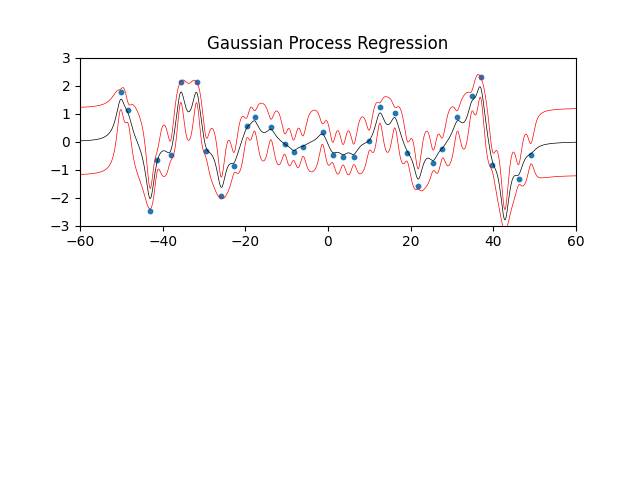
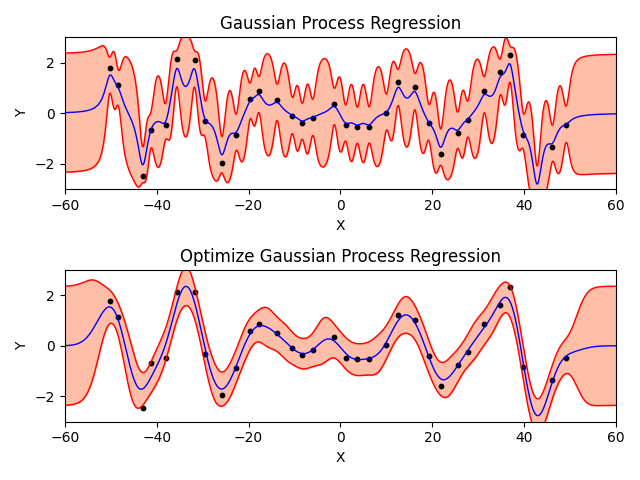
[HW5] Finish question 1.

diff --git a/hw5/ml/Gaussian_process.py b/hw5/ml/Gaussian_process.py
@@ -1,6 +1,8 @@
 import numpy as np
 import matplotlib.pyplot as plt
 from scipy.spatial.distance import cdist
+import math
+from scipy.optimize import minimize
 
 # python rich for debug
 from rich.traceback import install
@@ -64,22 +66,79 @@ def computeGaussianProcess(X: np.ndarray, Y: np.ndarray, X_star: np.ndarray, bet
     return predict_mean_xStar, predict_variance_xStar
 
 
-def visualizeGaussianProcess(X: np.ndarray, Y: np.ndarray, X_star: np.ndarray, predict_mean_xStar: np.ndarray, predict_variance_xStar: np.ndarray):
+def computeNegativeMarginalLogLikelihood(theta: np.ndarray, X: np.ndarray, Y: np.ndarray, beta: float):
+    """
+    According input theta, compute negative marginal log-likelihood
+    ln p(y|θ) = -0.5 * ln |Cθ| -0.5 * y^T * Cθ^-1 * y -0.5 * N * ln(2π)
+
+    parameter
+    X and Y: Input data points
+    X_star: All point X we want to predict. In this implement, the boundary of X_star is [-60, 60].
+    beta: The inverse of variance of ϵ.
+    theta: The hyper-parameters which I estimated.
+    """
+    N = X.shape[0]
+    # kθ(x, x)
+    k_theta = rationalQuadraticKernel(X, X, length = theta[0], alpha = theta[1])
+    # covariance matrix Cθ
+    C_theta = k_theta + (1 / beta) * np.identity(N)
+    # negative log-likelihood -ln p(y|θ) = 0.5 * ln |Cθ| +0.5 * y^T * Cθ^-1 * y +0.5 * N * ln(2π)
+    nega_log_likelihood = 0.5 * np.log(np.linalg.det(C_theta)) + 0.5 * np.matmul(np.transpose(Y), np.matmul(np.linalg.inv(C_theta), Y)) + 0.5 * N * np.log(2 * math.pi)
+    return nega_log_likelihood[0]
+
+
+def optimizeKernelParameter(X: np.ndarray, Y: np.ndarray, beta: float, theta: np.ndarray):
+    """
+    Optimize kernel function hyper-parameters theta(length, alpha).
+
+    parameter
+    X and Y: Input data points
+    X_star: All point X we want to predict. In this implement, the boundary of X_star is [-60, 60].
+    beta: The inverse of variance of ϵ.
+    theta: The hyper-parameters which I estimated.
+    """
+    opt_result = minimize(computeNegativeMarginalLogLikelihood, theta, args = (X, Y, beta))
+    return opt_result.x
+
+
+def visualizeGaussianProcess(X: np.ndarray, Y: np.ndarray, X_star: np.ndarray, predict_mean: np.ndarray, predict_variance: np.ndarray, opt_predict_mean: np.ndarray, opt_predict_variance: np.ndarray):
     # Draw Gaussian Process Regression
     plt.subplot(211)
     plt.title('Gaussian Process Regression')
-    plt.scatter(X, Y, s = 10.0)
-    var = np.diagonal(predict_variance_xStar).copy().reshape(-1, 1)
-    drawRegression(X_star, predict_mean_xStar, var)
+    plt.xlabel('X')
+    plt.ylabel('Y')
+    var = np.diagonal(predict_variance).copy()
+    # 95% confidence interval = 1.96x variance
+    confidence_interval_95 = 1.96 * var
+    drawRegression(X_star[:, 0], predict_mean[:, 0], confidence_interval_95)
+    plt.scatter(X, Y, s = 10.0, color = 'black')
+
+    # Draw Optimize Gaussian Process Regression
+    plt.subplot(212)
+    plt.title('Optimize Gaussian Process Regression')
+    plt.xlabel('X')
+    plt.ylabel('Y')
+    opt_var = np.diagonal(opt_predict_variance).copy()
+    # 95% confidence interval = 1.96x variance
+    opt_confidence_interval_95 = 1.96 * opt_var
+    drawRegression(X_star[:, 0], opt_predict_mean[:, 0], opt_confidence_interval_95)
+    plt.scatter(X, Y, s = 10.0, color = 'black')
+
+    # modify format
+    plt.tight_layout()
+
+    # save figure
     plt.savefig('foo.png')
 
 
-def drawRegression(x, y, var):
-    plt.plot(x, y, linewidth = 0.5, color = 'black')
-    plt.plot(x, y + var, linewidth = 0.5, color = 'red')
-    plt.plot(x, y - var, linewidth = 0.5, color = 'red')
+def drawRegression(x, y, boundary):
+    plt.plot(x, y, linewidth = 1, color = 'blue')
+    plt.plot(x, y + boundary, linewidth = 1, color = 'red')
+    plt.plot(x, y - boundary, linewidth = 1, color = 'red')
+    plt.fill_between(x, y + boundary, y - boundary, color = 'coral', alpha = 0.5)
     plt.xlim(-60.0, 60.0)
     plt.ylim(-3.0, 3.0)
+
 
 def gaussianProcessRegression(input_data: np.ndarray):
     """
@@ -101,5 +160,14 @@ def gaussianProcessRegression(input_data: np.ndarray):
     # default length and alpha are 1.0
     length = 1.0
     alpha = 1.0
-    predict_mean_xStar, predict_variance_xStar = computeGaussianProcess(X, Y, X_star, beta, length, alpha)
-    visualizeGaussianProcess(X, Y, X_star, predict_mean_xStar, predict_variance_xStar)
+    predict_mean, predict_variance = computeGaussianProcess(X, Y, X_star, beta, length, alpha)
+
+    # Optimize the kernel parameters by minimizing negative marginal log-likelihood
+    # Estimate the proper hyper-parameters theta = (1, 1)
+    guess_theta = np.array([1, 1])
+    opt_length, opt_alpha = optimizeKernelParameter(X, Y, beta, guess_theta)
+    opt_predict_mean, opt_predict_variance = computeGaussianProcess(X, Y, X_star, beta, opt_length, opt_alpha)
+
+    # visualization
+    visualizeGaussianProcess(X, Y, X_star, predict_mean, predict_variance, opt_predict_mean, opt_predict_variance)
+
